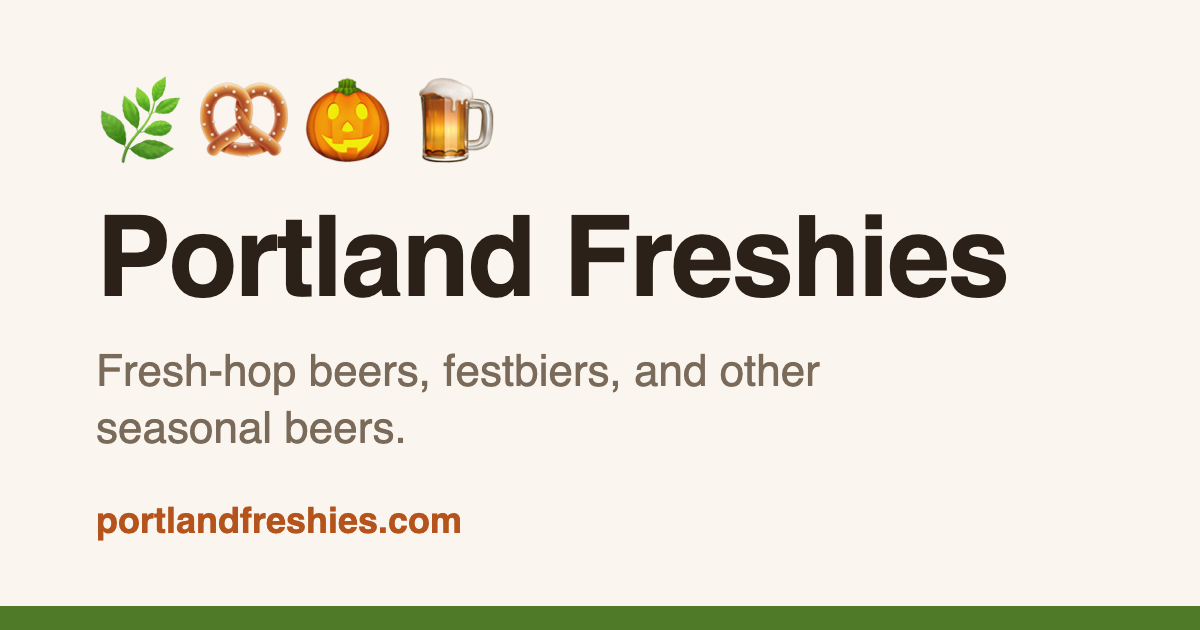
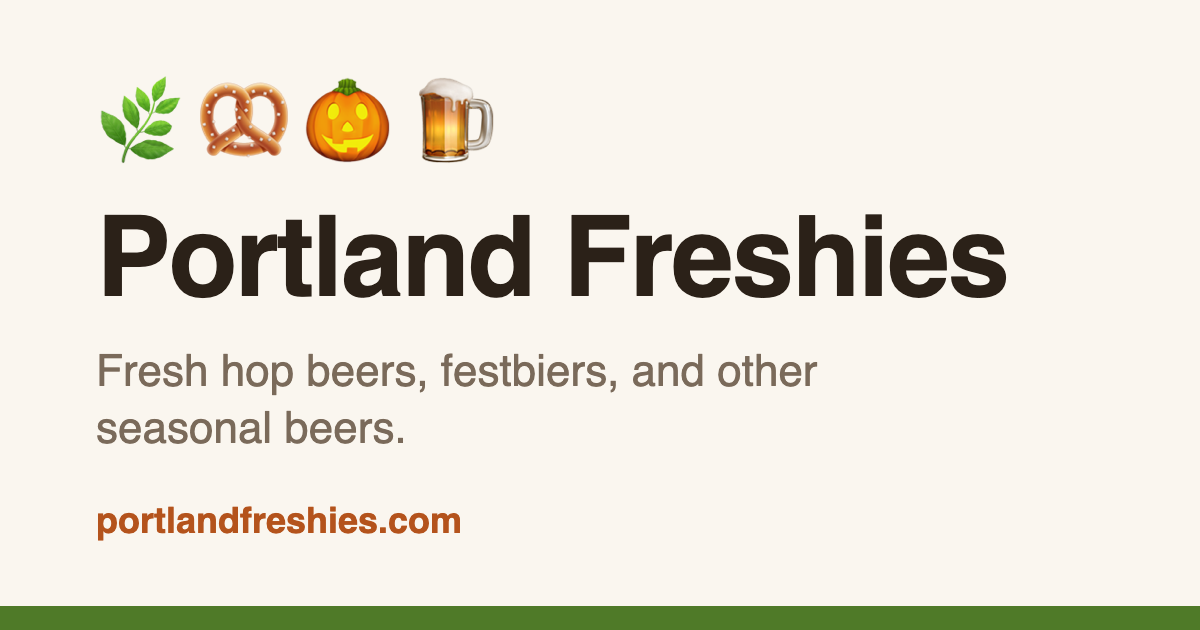
Freshies: write "fresh hop" without a hyphen in site copy
Taglines, descriptions, page summaries, and the link-preview cards now
say "fresh hop beers". The fresh-hop category key, CSS class, template
name, and fresh-hops.html URL keep their hyphen.

Changed region(s): [[0.185, 0.5429, 0.6783, 0.6333]]

diff --git a/public_templates/fresh-hop/taprooms.html b/public_templates/fresh-hop/taprooms.html
@@ -4,17 +4,17 @@
     <meta charset="UTF-8">
     <meta name="viewport" content="width=device-width, initial-scale=1.0">
     <title>Taprooms · {{site_name}}</title>
-    <meta name="description" content="Fresh-hop beers, festbiers, and pumpkin beers on tap right now at {{place}} bottle shops and taprooms.">
+    <meta name="description" content="Fresh hop beers, festbiers, and pumpkin beers on tap right now at {{place}} bottle shops and taprooms.">
     <link rel="canonical" href="{{public_url}}/taprooms.html">
     <meta property="og:type" content="website">
     <meta property="og:site_name" content="{{site_name}}">
     <meta property="og:title" content="Taprooms · {{site_name}}">
-    <meta property="og:description" content="Fresh-hop beers, festbiers, and pumpkin beers on tap right now at {{place}} bottle shops and taprooms.">
+    <meta property="og:description" content="Fresh hop beers, festbiers, and pumpkin beers on tap right now at {{place}} bottle shops and taprooms.">
     <meta property="og:url" content="{{public_url}}/taprooms.html">
     <meta property="og:image" content="{{public_url}}/og-image.png">
     <meta property="og:image:width" content="1200">
     <meta property="og:image:height" content="630">
-    <meta property="og:image:alt" content="{{site_name}}: fresh-hop beers, festbiers, and other seasonal beers">
+    <meta property="og:image:alt" content="{{site_name}}: fresh hop beers, festbiers, and other seasonal beers">
     <meta property="og:locale" content="en_US">
     <meta name="twitter:card" content="summary_large_image">
     <meta name="color-scheme" content="light dark">
@@ -59,7 +59,7 @@
 </header>
 
 <div class="container">
-    <p class="tagline">Fresh-hop beers, festbiers, and pumpkin beers on tap right now at {{place}} bottle shops and taprooms.</p>
+    <p class="tagline">Fresh hop beers, festbiers, and pumpkin beers on tap right now at {{place}} bottle shops and taprooms.</p>
     <p class="summary" id="summary"></p>
 
     <input class="search" id="search" type="search" placeholder="Search beers, breweries, or places…" aria-label="Search beers, breweries, or places" hidden>

diff --git a/public_templates/fresh-hop/fresh-hops.html b/public_templates/fresh-hop/fresh-hops.html
@@ -4,17 +4,17 @@
     <meta charset="UTF-8">
     <meta name="viewport" content="width=device-width, initial-scale=1.0">
     <title>Fresh hops · {{site_name}}</title>
-    <meta name="description" content="Fresh-hop beers on tap right now at {{place}} breweries.">
+    <meta name="description" content="Fresh hop beers on tap right now at {{place}} breweries.">
     <link rel="canonical" href="{{public_url}}/fresh-hops.html">
     <meta property="og:type" content="website">
     <meta property="og:site_name" content="{{site_name}}">
     <meta property="og:title" content="Fresh hops · {{site_name}}">
-    <meta property="og:description" content="Fresh-hop beers on tap right now at {{place}} breweries.">
+    <meta property="og:description" content="Fresh hop beers on tap right now at {{place}} breweries.">
     <meta property="og:url" content="{{public_url}}/fresh-hops.html">
     <meta property="og:image" content="{{public_url}}/og-image.png">
     <meta property="og:image:width" content="1200">
     <meta property="og:image:height" content="630">
-    <meta property="og:image:alt" content="{{site_name}}: fresh-hop beers, festbiers, and other seasonal beers">
+    <meta property="og:image:alt" content="{{site_name}}: fresh hop beers, festbiers, and other seasonal beers">
     <meta property="og:locale" content="en_US">
     <meta name="twitter:card" content="summary_large_image">
     <meta name="color-scheme" content="light dark">
@@ -62,7 +62,7 @@
 </header>
 
 <div class="container">
-    <p class="tagline">Fresh-hop beers on tap right now at {{place}} breweries. Fresh-hop season runs from late August through October.</p>
+    <p class="tagline">Fresh hop beers on tap right now at {{place}} breweries. Fresh hop season runs from late August through October.</p>
     <p class="summary" id="summary"></p>
 
     <input class="search" id="search" type="search" placeholder="Search beers, breweries, or places…" aria-label="Search beers, breweries, or places" hidden>

diff --git a/public_templates/fresh-hop/app.js b/public_templates/fresh-hop/app.js
@@ -1,6 +1,6 @@
 // Freshies sites: renders one page, chosen by <body data-page>, from the
 // shared data.json:
-//   freshhop  fresh-hop beers at breweries
+//   freshhop  fresh hop beers at breweries
 //   festbier  festbiers, Oktoberfests, and Märzens at breweries
 //   pumpkin   pumpkin beers at breweries
 //   taprooms  all three, at bottle shops and taprooms
@@ -40,7 +40,7 @@ const PAGES = {
         venueType: type => type !== 'taproom',
         categories: ['fresh-hop'],
         places: BREWERIES,
-        beers: n => count(n, 'fresh-hop beer', 'fresh-hop beers'),
+        beers: n => count(n, 'fresh hop beer', 'fresh hop beers'),
         none: 'no fresh hops',
         months: [8, 10],
         offSeason: 'Fresh hops are out of season.',
@@ -73,7 +73,7 @@ const PAGES = {
         venueType: type => type === 'taproom',
         categories: ['fresh-hop', 'festbier', 'pumpkin'],
         places: n => count(n, 'bottle shop or taproom', 'bottle shops and taprooms'),
-        beers: n => count(n, 'fresh-hop, festbier, or pumpkin beer', 'fresh-hop, festbier, and pumpkin beers'),
+        beers: n => count(n, 'fresh hop, festbier, or pumpkin beer', 'fresh hop, festbier, and pumpkin beers'),
         none: 'no fresh hops, festbiers, or pumpkin beers',
         tags: true,
         tabCountsPlaces: true,

diff --git a/public_templates/fresh-hop/events.html b/public_templates/fresh-hop/events.html
@@ -15,7 +15,7 @@
     <meta property="og:image" content="{{public_url}}/og-image.png">
     <meta property="og:image:width" content="1200">
     <meta property="og:image:height" content="630">
-    <meta property="og:image:alt" content="{{site_name}}: fresh-hop beers, festbiers, and other seasonal beers">
+    <meta property="og:image:alt" content="{{site_name}}: fresh hop beers, festbiers, and other seasonal beers">
     <meta property="og:locale" content="en_US">
     <meta name="twitter:card" content="summary_large_image">
     <meta name="color-scheme" content="light dark">

diff --git a/public_templates/fresh-hop/festbier.html b/public_templates/fresh-hop/festbier.html
@@ -14,7 +14,7 @@
     <meta property="og:image" content="{{public_url}}/og-image.png">
     <meta property="og:image:width" content="1200">
     <meta property="og:image:height" content="630">
-    <meta property="og:image:alt" content="{{site_name}}: fresh-hop beers, festbiers, and other seasonal beers">
+    <meta property="og:image:alt" content="{{site_name}}: fresh hop beers, festbiers, and other seasonal beers">
     <meta property="og:locale" content="en_US">
     <meta name="twitter:card" content="summary_large_image">
     <meta name="color-scheme" content="light dark">

diff --git a/public_templates/fresh-hop/pumpkin.html b/public_templates/fresh-hop/pumpkin.html
@@ -14,7 +14,7 @@
     <meta property="og:image" content="{{public_url}}/og-image.png">
     <meta property="og:image:width" content="1200">
     <meta property="og:image:height" content="630">
-    <meta property="og:image:alt" content="{{site_name}}: fresh-hop beers, festbiers, and other seasonal beers">
+    <meta property="og:image:alt" content="{{site_name}}: fresh hop beers, festbiers, and other seasonal beers">
     <meta property="og:locale" content="en_US">
     <meta name="twitter:card" content="summary_large_image">
     <meta name="color-scheme" content="light dark">

diff --git a/deploy/images/og-card.html b/deploy/images/og-card.html
@@ -18,6 +18,6 @@
 </style></head><body>
   <div class="icons">🌿🥨🎃🍺</div>
   <h1>{{site_name}}</h1>
-  <p>Fresh-hop beers, festbiers, and other<br>seasonal beers.</p>
+  <p>Fresh hop beers, festbiers, and other<br>seasonal beers.</p>
   <div class="url">{{domain}}</div>
 </body></html>

diff --git a/tests/unit/test_fresh_hop_seasons.py b/tests/unit/test_fresh_hop_seasons.py
@@ -103,7 +103,7 @@ def test_beers_show_even_out_of_season() -> None:
     rendered = _render("freshhop", 12, [_listing("fresh-hop")])
     assert "A fresh-hop beer" in rendered["listings"]
     assert "out of season" not in rendered["listings"]
-    assert "1 fresh-hop beer" in rendered["summary"]
+    assert "1 fresh hop beer" in rendered["summary"]
 
 
 def test_month_is_read_in_site_time() -> None:
@@ -138,7 +138,7 @@ def test_taprooms_and_events_never_say_out_of_season() -> None:
 @pytest.mark.parametrize(
     "page, sentence",
     [
-        ("fresh-hops.html", "Fresh-hop season runs from late August through October."),
+        ("fresh-hops.html", "Fresh hop season runs from late August through October."),
         ("festbier.html", "Festbier season runs from September through October."),
         ("pumpkin.html", "Pumpkin beer season runs from September through November."),
     ],
